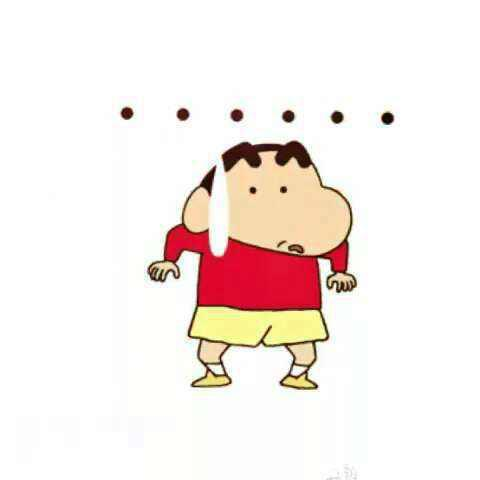
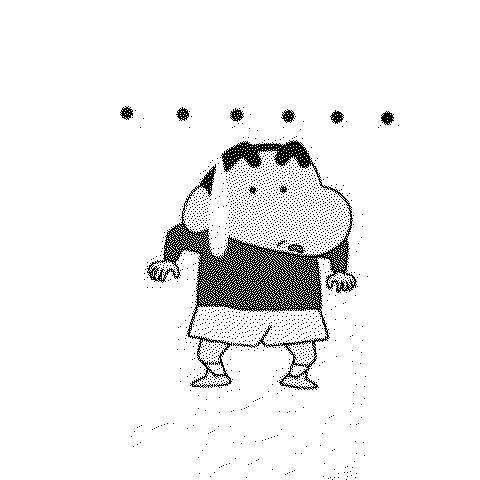
测试图片操作

diff --git a/base.py b/base.py
@@ -5,14 +5,19 @@ import contextlib
 from PIL import Image
 
 
+class NewImage:
+    def __init__(self, file_name):
+        self.base_dir = os.path.dirname(os.path.dirname(os.path.abspath(__file__)))
+        self.img_dir = os.path.join(self.base_dir, u'GraphManipulation\Images')
+        self.file_dir = os.path.join(self.img_dir, file_name)
+        self.im = Image.open(self.file_dir)
+
+
 @contextlib.contextmanager
 def open_image(file_name):
-    base_dir = os.path.dirname(os.path.dirname(os.path.abspath(__file__)))
-    img_dir = os.path.join(base_dir, u'GraphManipulation\Images')
-    file_dir = os.path.join(img_dir, file_name)
-    im = Image.open(file_dir)
+    new_im = NewImage(file_name)
     try:
-        yield im
+        yield new_im
     except Exception as e:
         print e
     finally:

diff --git a/graph_manipulation.py b/graph_manipulation.py
@@ -1,13 +1,15 @@
 # coding=utf-8
 
+import os
 from base import open_image
 
 
 def base_image(img):
     try:
         with open_image(img) as image:
-            image.convert("1")
-            print image.mode
+            new_img = image.im.convert("1")
+            new_dir = os.path.join(image.img_dir, 'new_img.jpg')
+            new_img.save(new_dir)
     except Exception as e:
         print e
 
